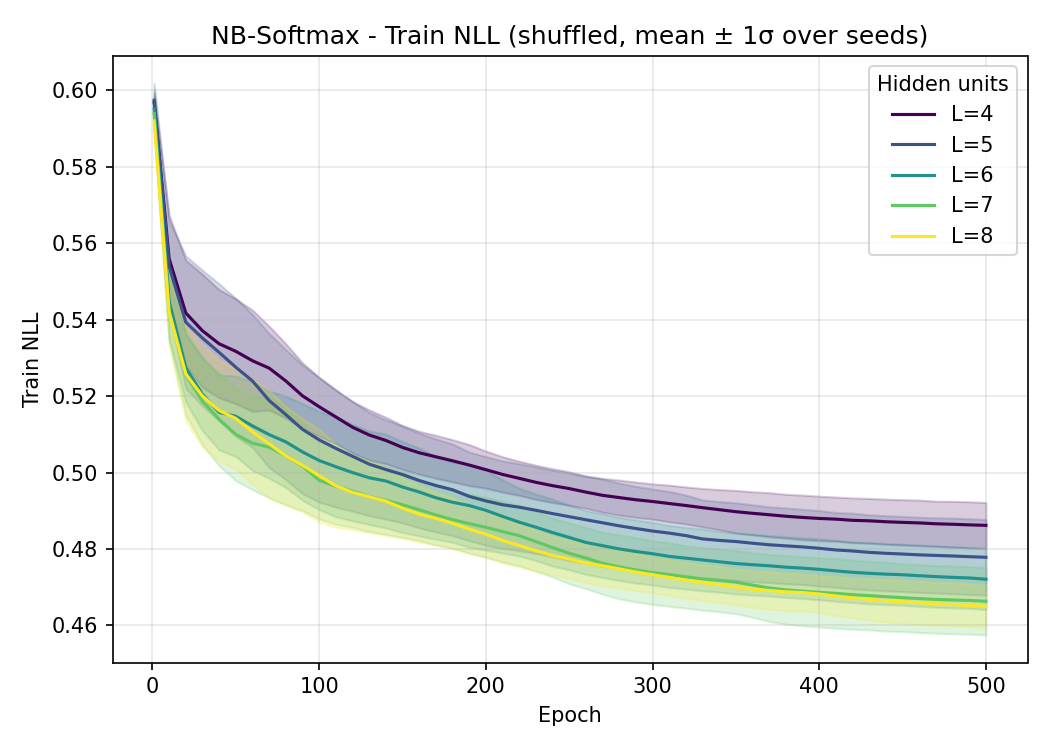
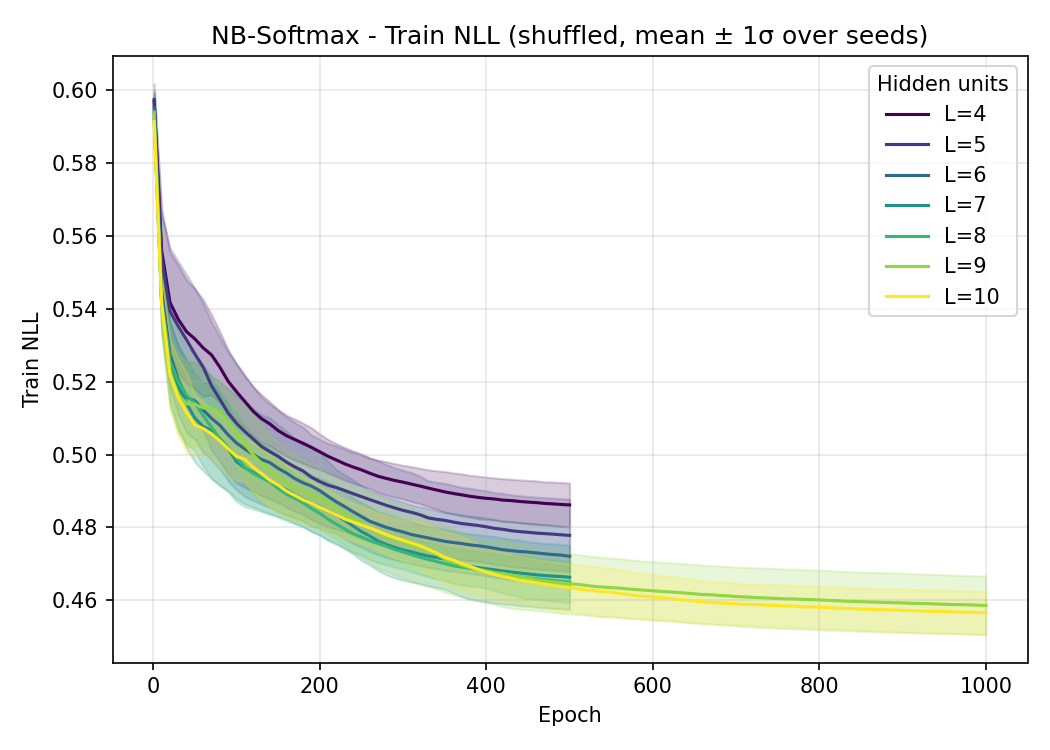
plot_train_nll_curves: cover every family and split (PLL for Bernoulli), not three arbitrary ones

diff --git a/code/scripts/diagnostic/plot_train_nll_curves.py b/code/scripts/diagnostic/plot_train_nll_curves.py
@@ -1,15 +1,18 @@
 """
-plot_train_nll_curves.py - Train NLL vs epoch of one family across several L.
+plot_train_nll_curves.py - Train NLL (PLL for Bernoulli families) vs epoch of one family across several L.
 
 Mean ± 1σ over seeds, one line per L. Complements plot_nll_curves.py (several
 families at one L) and replaces the archived plot_sigmoid_nll.py /
 plot_zinb_nll.py, which read the pre-artifacts/ layout.
 
-Output: diagnostic_outputs/diagnostics/training_curves/single_family_by_L/{split}/{family}_train_nll.png
+Output: diagnostic_outputs/diagnostics/training_curves/single_family_by_L/{split}/{family}_train_{nll|pll}.png
 
 Usage:
     python code/scripts/diagnostic/plot_train_nll_curves.py \\
-        --families nb_softmax zinb_sigmoid zinb_softmax [--L 4 5 6 7 8] [--split shuffled]
+        [--families nb_softmax ...] [--L 4 5 6] [--split shuffled]
+
+Without --families every family with runs in the split is plotted; without
+--L every L found for that family is drawn.
 """
 
 import argparse
@@ -19,16 +22,17 @@ import matplotlib
 
 matplotlib.use("Agg")
 import matplotlib.pyplot as plt
-from models.io import SHUFFLED, SPLITS, model_dir, split_out_dir
+from models.io import SHUFFLED, SPLITS, discover_model_dirs, model_dir, split_out_dir
 from models.paths import DIAGNOSTIC_ROOT, MODELS_ROOT
-from models.visualization import aggregate_curves, display_name
+from models.visualization import FAMILY_META, aggregate_curves, display_name
 
 
 def parse_args(argv: list[str] | None = None) -> argparse.Namespace:
     parser = argparse.ArgumentParser(description="Train NLL vs epoch of one family across several L.")
-    parser.add_argument("--families", nargs="+", required=True, help="Families to plot, one figure each")
-    parser.add_argument("--L", nargs="+", type=int, default=[4, 5, 6, 7, 8],
-                        help="Hidden unit counts (default: 4 5 6 7 8)")
+    parser.add_argument("--families", nargs="+", default=None,
+                        help="Families to plot, one figure each (default: all with runs in the split)")
+    parser.add_argument("--L", nargs="+", type=int, default=None,
+                        help="Hidden unit counts (default: every L found for the family)")
     parser.add_argument("--split", choices=SPLITS, default=SHUFFLED,
                         help="Split strategy (default: shuffled)")
     parser.add_argument("--models-root", type=Path, default=MODELS_ROOT)
@@ -42,25 +46,32 @@ def main():
     out_dir.mkdir(parents=True, exist_ok=True)
     cmap = plt.colormaps["viridis"]
 
-    for family in args.families:
+    available = discover_model_dirs(args.models_root, args.split)
+    for family in args.families or sorted(available):
+        l_values = args.L or sorted(available.get(family, {}))
+        if not l_values:
+            print(f"[SKIP] {family}: no runs for split={args.split}")
+            continue
+        col = FAMILY_META[family]["col"].replace("val_", "train_")
+        label = "Train " + col.split("_")[1].upper()
         fig, ax = plt.subplots(figsize=(7, 5))
-        for i, l_val in enumerate(args.L):
+        for i, l_val in enumerate(l_values):
             csvs = sorted(model_dir(family, l_val, args.split, args.models_root)
                           .glob("seed_*/rbm_training_curves.csv"))
-            agg = aggregate_curves(csvs, "train_nll")
+            agg = aggregate_curves(csvs, col)
             if agg is None:
                 continue
             mean, std = agg
-            color = cmap(i / max(len(args.L) - 1, 1))
+            color = cmap(i / max(len(l_values) - 1, 1))
             ax.plot(mean.index, mean.values, color=color, lw=1.5, label=f"L={l_val}")
             ax.fill_between(mean.index, mean - std, mean + std, color=color, alpha=0.2)
         ax.set_xlabel("Epoch")
-        ax.set_ylabel("Train NLL")
-        ax.set_title(f"{display_name(family)} - Train NLL ({args.split}, mean ± 1σ over seeds)")
+        ax.set_ylabel(label)
+        ax.set_title(f"{display_name(family)} - {label} ({args.split}, mean ± 1σ over seeds)")
         ax.legend(title="Hidden units")
         ax.grid(True, alpha=0.3)
         fig.tight_layout()
-        out = out_dir / f"{family}_train_nll.png"
+        out = out_dir / f"{family}_{col}.png"
         fig.savefig(out, dpi=150)
         plt.close(fig)
         print(f"Saved: {out}")

diff --git a/DECISION_LOG.md b/DECISION_LOG.md
@@ -715,6 +715,6 @@ comparison perimeter (§0); also untouched.
 
 **Context:** Last folder of the `results/` tier still unstructured. Ten files, three kinds of figure mixed together (val metric of every family vs epoch; train NLL of one family across L; NB/ZINB θ/π trajectories) plus one cross-family comparison at fixed L, under names that did not say what they showed (`sweep_nb_diagnostics.png` is a θ trajectory, not an NLL plot). Three files (`softmax_train_nll_curves.png`, `zinb_sigmoid_train_nll_curves.png`, `zinb_softmax_train_nll_curves.png`) sat at the root with no split directory, and their producers (`code/scripts/archive/plot_*_nll.py`) still read the pre-`artifacts/` layout (`{family}_L{n}_shuffled`), so those figures could not be regenerated.
 
-**Decision:** Same philosophy as the previous reorganisations (LOG-028…033): the path alone must say what a figure is, figure kind outermost, split second. New tree: `diagnostics/training_curves/{all_families_by_L,single_family_by_L,family_comparison_fixed_L}/{split}/` and `diagnostics/nb_zinb_parameters/{split}/`. Filenames name the content (`val_metric_by_family.png`, `nb_nll_theta_by_L.png`, `zinb_nll_theta_pi_by_L.png`, `{family}_train_nll.png`). A working `plot_train_nll_curves.py` (`--families`, `--L`, `--split`) replaces the two broken archive scripts.
+**Decision:** Same philosophy as the previous reorganisations (LOG-028…033): the path alone must say what a figure is, figure kind outermost, split second. New tree: `diagnostics/training_curves/{all_families_by_L,single_family_by_L,family_comparison_fixed_L}/{split}/` and `diagnostics/nb_zinb_parameters/{split}/`. Filenames name the content (`val_metric_by_family.png`, `nb_nll_theta_by_L.png`, `zinb_nll_theta_pi_by_L.png`, `{family}_train_{nll|pll}.png`). A working `plot_train_nll_curves.py` (`--families`, `--L`, `--split`; default every family and every L found in the split, PLL for the Bernoulli families) replaces the two broken archive scripts, which covered only three arbitrary families.
 
-**Consequences:** `results/diagnostics/` and its `diagnostic_outputs/` mirror were regenerated from the current code and republished through `publish_results.py` (the old 10 files and their manifest entries removed first, since `publish()` never deletes). The single `diagnostics` category in `publish_results.py` became four, one per producer, so each manifest entry names the script that really made it. `val_metric_by_family.png` was redrawn as a 2×5 grid (it was a single unreadable row of ten panels). The three formerly loose figures are now `shuffled/` (the split their producers hard-coded). `README.md`, `results/README.md`, `ARCHITECTURE.md` updated. The archive scripts are gitignored local files and were left in place.
+**Consequences:** `results/diagnostics/` and its `diagnostic_outputs/` mirror were regenerated from the current code and republished through `publish_results.py` (the old 10 files and their manifest entries removed first, since `publish()` never deletes). The single `diagnostics` category in `publish_results.py` became four, one per producer, so each manifest entry names the script that really made it. `val_metric_by_family.png` was redrawn as a 2×5 grid (it was a single unreadable row of ten panels). `single_family_by_L/` now has one figure per family per split (14 files), not the three the archive scripts happened to cover. `README.md`, `results/README.md`, `ARCHITECTURE.md` updated. The archive scripts are gitignored local files and were left in place.

diff --git a/ARCHITECTURE.md b/ARCHITECTURE.md
@@ -179,7 +179,7 @@ code/
       nan_test_eval.py              NaN imputation evaluation → diagnostic_outputs/nan_eval_extended/
       plot_training_runs.py         training curves from artifacts/models/ → diagnostic_outputs/training_curves/
       plot_nll_curves.py            train/val NLL curves of several families at one L → diagnostic_outputs/diagnostics/training_curves/family_comparison_fixed_L/{split}/
-      plot_train_nll_curves.py      train NLL of one family across several L → diagnostic_outputs/diagnostics/training_curves/single_family_by_L/{split}/
+      plot_train_nll_curves.py      train NLL/PLL of every family across L → diagnostic_outputs/diagnostics/training_curves/single_family_by_L/{split}/
     analysis/                     ecological interpretation
       hidden/                        "what do the hidden units mean?" → results/02_model_analysis/hidden/<kind>/{chrono,shuffled}/
         hidden_dominant_state.py      dominant state timelines + weight profiles → weight_profiles/, state_timeline/, state_frequency/, dominant_state/

diff --git a/materiale_presentazione/ARCHITECTURE.md b/materiale_presentazione/ARCHITECTURE.md
@@ -179,7 +179,7 @@ code/
       nan_test_eval.py              NaN imputation evaluation → diagnostic_outputs/nan_eval_extended/
       plot_training_runs.py         training curves from artifacts/models/ → diagnostic_outputs/training_curves/
       plot_nll_curves.py            train/val NLL curves of several families at one L → diagnostic_outputs/diagnostics/training_curves/family_comparison_fixed_L/{split}/
-      plot_train_nll_curves.py      train NLL of one family across several L → diagnostic_outputs/diagnostics/training_curves/single_family_by_L/{split}/
+      plot_train_nll_curves.py      train NLL/PLL of every family across L → diagnostic_outputs/diagnostics/training_curves/single_family_by_L/{split}/
     analysis/                     ecological interpretation
       hidden/                        "what do the hidden units mean?" → results/02_model_analysis/hidden/<kind>/{chrono,shuffled}/
         hidden_dominant_state.py      dominant state timelines + weight profiles → weight_profiles/, state_timeline/, state_frequency/, dominant_state/

diff --git a/README.md b/README.md
@@ -235,7 +235,7 @@ python code/scripts/diagnostic/split_comparison.py      # Chrono vs shuffled →
 python code/scripts/diagnostic/nan_test_eval.py         # NaN imputation → diagnostic_outputs/nan_eval_extended/
 python code/scripts/diagnostic/plot_training_runs.py    # Training curves → diagnostic_outputs/
 python code/scripts/diagnostic/plot_nll_curves.py       # NB-Bernoulli vs NB-Sigmoid NLL curves → diagnostic_outputs/diagnostics/training_curves/family_comparison_fixed_L/
-python code/scripts/diagnostic/plot_train_nll_curves.py --families nb_softmax  # one family across L → .../training_curves/single_family_by_L/
+python code/scripts/diagnostic/plot_train_nll_curves.py --split shuffled  # every family across L → .../training_curves/single_family_by_L/
 ```
 
 Scripts that read one split at a time take `--split chrono|shuffled` (default
